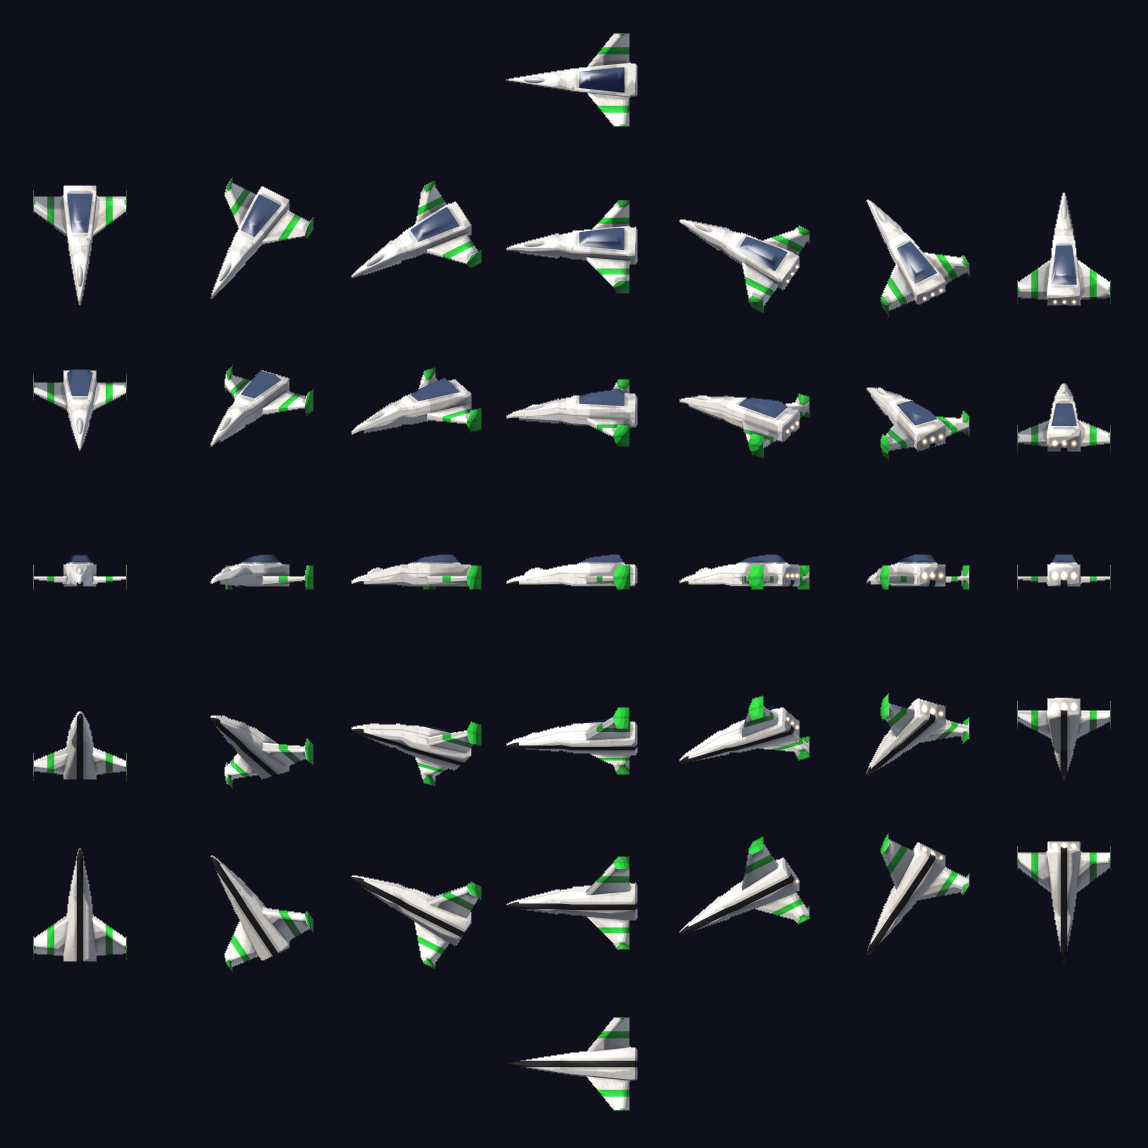
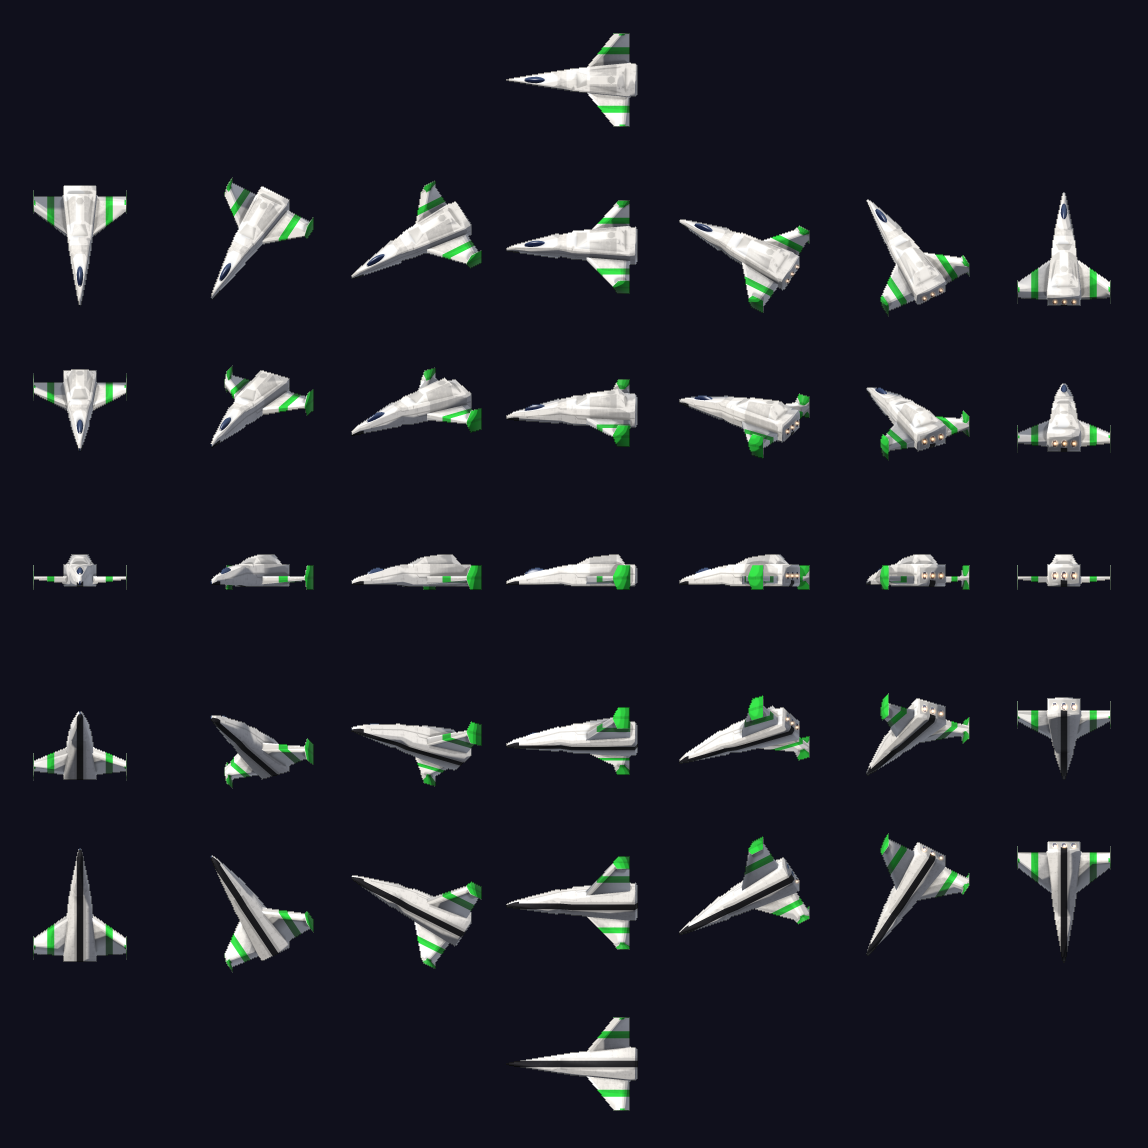
retrovega: the Franklin's canopy is the navy oval on its nose taper, not the hump on the deck
The oval pod at z 1.65-2.45 is painted navy in the Vega Strike texture;
the hull whitening had turned it white, and the glass rule had picked the
hump behind it.  A new paint term blue>D takes texels bluer than their red
and green by D (the dome's are 0.26, the hull's never above 0.03), so the
Franklin's glass rule is blue>0.12 and the hump is hull again.

Claude-Session: https://claude.ai/code/session_019Nres1uExFzYT7oEr38LtM

diff --git a/retrovega/tools/shipviews.py b/retrovega/tools/shipviews.py
@@ -80,10 +80,11 @@ void main() {
 # uses), hazard (alternating bands beyond a fraction of the half-span), fin
 # (vertical surfaces beyond a fraction of the half-span: wingtip fins), band
 # (a stripe across the wings between two fractions of the half-span), above
-# (higher than a fraction of the ship's height: a canopy on the deck); each
-# may be limited to the surfaces facing up (1) or down (-1) on the ship.
-# The glass rules pick the canopy, drawn dark blue and glossy whatever the
-# livery.
+# (higher than a fraction of the ship's height), blue (texels of the
+# diffuse map bluer than their red and green by a margin: a canopy the
+# Vega Strike artist painted navy); each may be limited to the surfaces
+# facing up (1) or down (-1) on the ship.  The glass rules pick the canopy,
+# drawn dark blue and glossy whatever the livery.
 FS = '''
 #version 330
 uniform sampler2D diffuse_map;
@@ -110,6 +111,12 @@ uniform vec4 rule3;     // the same for the glass
 uniform vec4 rule3b;
 uniform vec4 side3;
 uniform vec4 side3b;
+uniform vec4 rule1c;    // blue, unused x3, for each of the three
+uniform vec4 rule2c;
+uniform vec4 rule3c;
+uniform vec4 side1c;
+uniform vec4 side2c;
+uniform vec4 side3c;
 uniform float whiten;
 uniform float detail_ref;
 uniform float exposure;
@@ -125,9 +132,10 @@ layout(location = 0) out vec4 frag;
 layout(location = 1) out vec4 paint;
 vec3 lin(vec3 c) { return pow(c, vec3(2.2)); }
 float facing(float side, float ny) { return side == 0.0 ? 1.0 : step(0.2, side * ny); }
-float area(vec4 r, vec4 rb, vec4 sd, vec4 sdb, float ny, float nx) {
+float area(vec4 r, vec4 rb, vec4 rc, vec4 sd, vec4 sdb, vec4 sdc, float ny, float nx) {
     float x = abs(v_obj.x) / half_span;
     float p = 0.0;
+    if (rc.x > 0.0) p = max(p, step(rc.x, texture(lum_map, v_uv).g) * facing(sdc.x, ny));
     if (rb.x > 0.0) p = max(p, step(rb.x, x) * step(0.5, nx) * facing(sdb.x, ny));
     if (rb.z > 0.0) p = max(p, step(rb.y, x) * step(x, rb.z) * facing(sdb.y, ny));
     if (rb.w > 0.0) p = max(p, step(rb.w, (v_obj.y - y_lo) / (y_hi - y_lo)) * facing(sdb.w, ny));
@@ -146,11 +154,11 @@ void main() {
     float detail = clamp(pow(l / detail_ref, 0.5), 0.75, 1.2);
     albedo = mix(albedo, vec3(0.62) * detail, whiten);
     vec3 on = normalize(v_on) * (gl_FrontFacing ? 1.0 : -1.0);
-    float p1 = area(rule1, rule1b, side1, side1b, on.y, abs(on.x)) * paint_on;
-    float p2 = area(rule2, rule2b, side2, side2b, on.y, abs(on.x)) * paint_on;
+    float p1 = area(rule1, rule1b, rule1c, side1, side1b, side1c, on.y, abs(on.x)) * paint_on;
+    float p2 = area(rule2, rule2b, rule2c, side2, side2b, side2c, on.y, abs(on.x)) * paint_on;
     albedo = mix(albedo, primary * detail, p1);
     albedo = mix(albedo, secondary * detail, p2);
-    float g = area(rule3, rule3b, side3, side3b, on.y, abs(on.x));
+    float g = area(rule3, rule3b, rule3c, side3, side3b, side3c, on.y, abs(on.x));
     albedo = mix(albedo, glass_col, g);
     vec3 specc = lin(texture(spec_map, v_uv).rgb);
     float shin = mix(8.0, 80.0, clamp(dot(specc, vec3(0.3, 0.6, 0.1)) * 1.5, 0.0, 1.0));
@@ -244,24 +252,28 @@ def used_texels(size, tri_uv):
 
 
 def lum_map(diffuse, tri_uv):
-    """The diffuse map's luminance, smoothed, as percentiles of the texels the
-    mesh uses (0..1), so 'lum>0.8' means its brightest fifth of panels; also
-    the median linear luminance (the reference for keeping panel detail)."""
+    """Two masks of the diffuse map for the paint rules, as an RGB image: in
+    red its luminance, smoothed, as percentiles of the texels the mesh uses
+    (0..1), so 'lum>0.8' means its brightest fifth of panels; in green its
+    blueness, blue minus the larger of red and green (0..1).  Also the
+    median linear luminance (the reference for keeping panel detail)."""
     a = np.asarray(diffuse, dtype=np.float32) / 255
     lum = a @ np.array([0.2126, 0.7152, 0.0722], dtype=np.float32)
     used = used_texels(diffuse.size, tri_uv)
     smooth = ndimage.gaussian_filter(lum, diffuse.size[0] / 200.0)
     ranks = np.searchsorted(np.sort(smooth[used]), smooth) / max(used.sum(), 1)
     ref = float(np.median((a ** 2.2)[used] @ np.array([0.2126, 0.7152, 0.0722], dtype=np.float32)))
-    return Image.fromarray((np.clip(ranks, 0, 1) * 255).astype(np.uint8), 'L'), max(ref, 0.02)
+    blue = ndimage.gaussian_filter(a[..., 2] - np.maximum(a[..., 0], a[..., 1]), 1.0)
+    rgb = np.dstack([np.clip(ranks, 0, 1), np.clip(blue, 0, 1), np.zeros_like(blue)])
+    return Image.fromarray((rgb * 255).astype(np.uint8), 'RGB'), max(ref, 0.02)
 
 
 def rule_vec(rule):
-    """'fin>0.95|band:0.55-0.7|spine<0.07@bottom' -> the shader's two
-    parameter vectors and two side vectors.  Terms: span>F, spine<F, lum>P,
-    hazard>F, fin>F, band:A-B, above>F; one ending in @top or @bottom paints
-    only the surfaces facing that way on the ship."""
-    v, side = [0.0] * 8, [0.0] * 8
+    """'fin>0.95|band:0.55-0.7|spine<0.07@bottom' -> the shader's three
+    parameter vectors and three side vectors.  Terms: span>F, spine<F,
+    lum>P, hazard>F, fin>F, band:A-B, above>F, blue>D; one ending in @top or
+    @bottom paints only the surfaces facing that way on the ship."""
+    v, side = [0.0] * 12, [0.0] * 12
     for r in filter(None, (rule or '').split('|')):
         r, _, where = r.partition('@')
         w = {'': 0.0, 'top': 1.0, 'bottom': -1.0}[where]
@@ -269,7 +281,7 @@ def rule_vec(rule):
             lo, hi = r[5:].split('-')
             v[5], v[6], side[5] = float(lo), float(hi), w
             continue
-        for name, i in (('span>', 0), ('spine<', 1), ('lum>', 2), ('hazard>', 3), ('fin>', 4), ('above>', 7)):
+        for name, i in (('span>', 0), ('spine<', 1), ('lum>', 2), ('hazard>', 3), ('fin>', 4), ('above>', 7), ('blue>', 8)):
             if r.startswith(name):
                 v[i], side[i] = float(r[len(name):]), w
                 break
@@ -277,7 +289,7 @@ def rule_vec(rule):
             sys.exit('unknown paint term %r' % r)
     # side[5] is the band's; the shader reads it as the second side of the b vector
     sb = (side[4], side[5], 0.0, side[7])
-    return tuple(v[:4]), tuple(v[4:]), tuple(side[:4]), sb
+    return tuple(v[:4]), tuple(v[4:8]), tuple(v[8:]), tuple(side[:4]), sb, tuple(side[8:])
 
 
 def view_matrix(elev, head):
@@ -333,9 +345,9 @@ def render(row, outdir, size, assets, livery_name=None):
     prog['y_hi'].value = float(allpos[:, 1].max() - center[1])
     prog['glass_col'].value = tuple((c / 255.0) ** 2.2 for c in GLASS)
     for n, rule in (('1', art.get('paint')), ('2', art.get('paint2')), ('3', art.get('glass'))):
-        a, b, sa, sb = rule_vec(rule)
-        prog['rule' + n].value, prog['rule%sb' % n].value = a, b
-        prog['side' + n].value, prog['side%sb' % n].value = sa, sb
+        a, b, c, sa, sb, sc = rule_vec(rule)
+        prog['rule' + n].value, prog['rule%sb' % n].value, prog['rule%sc' % n].value = a, b, c
+        prog['side' + n].value, prog['side%sb' % n].value, prog['side%sc' % n].value = sa, sb, sc
 
     drawables = []
     for m in parts:
@@ -349,7 +361,7 @@ def render(row, outdir, size, assets, livery_name=None):
             imgs[idx] = load_image(os.path.join(unit_dir, names[0]) if names else None, fallback)
         lum, ref = lum_map(imgs[0], m.tri_uv)
         tex = {i: make_texture(ctx, im) for i, im in imgs.items()}
-        tex['lum'] = make_texture(ctx, lum, 1)
+        tex['lum'] = make_texture(ctx, lum)
         drawables.append((vao, tex, ref))
 
     big = size * SS

diff --git a/retrovega/docs/art.md b/retrovega/docs/art.md
@@ -54,13 +54,14 @@ Paint terms:
 | `spine<F` | a stripe along the centre line, F of the half-span wide |
 | `hazard>F` | alternating bands beyond F of the half-span |
 | `lum>P` | the brightest panels: above the P-th fraction of the texture's used texels, smoothed |
-| `above>F` | everything higher than F of the ship's height (a canopy on the deck) |
+| `above>F` | everything higher than F of the ship's height |
+| `blue>D` | texels of the diffuse map bluer than their red and green by D (0..1): a canopy the Vega Strike artist painted navy |
 
 Any term can end in `@top` or `@bottom` to paint only the surfaces facing
 that way on the ship. The Franklin uses `fin>0.95|band:0.55-0.7` in the
 primary colour and `spine<0.07@bottom` in the secondary. Its glass is
-`above>0.76`: the dome on the deck above the hull's top surface, which
-leaves a white frame where the dome meets the deck.
+`blue>0.12`: the oval dome on the nose taper, painted navy in its texture.
+The hull's own texels are never more than 0.03 bluer; the dome's are 0.26.
 
 ## Liveries: data/liveries.csv
 

diff --git a/retrovega/docs/spec.md b/retrovega/docs/spec.md
@@ -571,8 +571,9 @@ sheet and a posterised preview.
   - `fin>F`: vertical surfaces beyond F of the half-span (wingtip fins);
   - `band:A-B`: a stripe across the wings between A and B of the half-span;
   - `above>F`: everything higher than F of the ship's height;
+  - `blue>D`: texels bluer than their red and green by D, i.e. a canopy painted navy in the Vega Strike texture;
   - any term may end in `@top` or `@bottom` to paint only the surfaces facing that way. The Franklin is `fin>0.95|band:0.55-0.7` in the primary colour and `spine<0.07@bottom` (a stripe under the belly) in the secondary.
-- **glass:** a rule for the canopy, drawn dark navy and glossy in every livery. The Franklin's dome is `above>0.76`.
+- **glass:** a rule for the canopy, drawn dark navy and glossy in every livery. The Franklin's is `blue>0.12`, the oval dome on its nose taper.
 
 **Palette** (one fixed 256-colour palette in flight):
 
